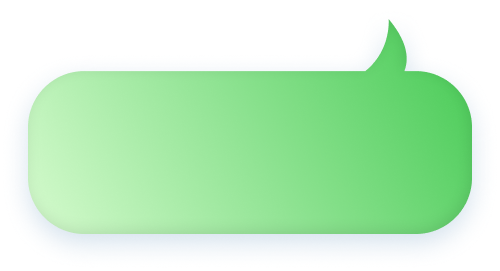
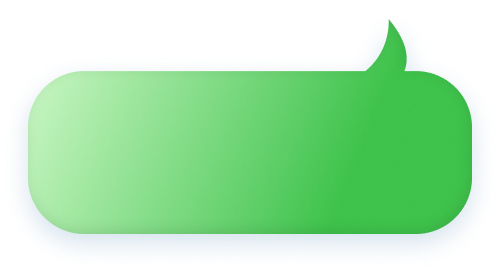
bubble styling

diff --git a/styles/main.css b/styles/main.css
@@ -18,6 +18,23 @@ h1, h2, button {
   text-transform: uppercase;
 }
 
+p {
+  font-size: .9rem;
+  letter-spacing: 2%;
+}
+
+#textBL, #textBR {
+  padding-top: .7rem;
+  font-size: .7rem;
+  letter-spacing: 6%;
+}
+
+#textTL, #textTR {
+  padding-bottom: 1rem;
+  font-size: .7rem;
+  letter-spacing: 6%;
+}
+
 lottie-player {
   width: 200px;
   height: 200px;
@@ -48,11 +65,13 @@ lottie-player {
   display: flex;
   height: 5rem;
 }
+
 .gameMaster {
   align-self: center;
   width: 12rem;
   height: 10rem;
 }
+
 .bubble {
   background-position: center;
   background-size: contain;
@@ -61,8 +80,11 @@ lottie-player {
   justify-content: center;
   align-items: center;
   cursor: pointer;
-  width: 6rem;
+
+  width: 8rem;
+  height: 6rem;
 }
+
 .bubble > p {
   text-align: center;
   vertical-align: middle;
@@ -74,26 +96,11 @@ lottie-player {
   letter-spacing: 0.5px;
 }
 
-#textTL {
-  padding-bottom: 0.3rem;
-}
-
-#textTR {
-  padding-bottom: 0.3rem;
-}
-
-#textBL {
-  padding-top: 0.3rem;
-}
-
-#textBR {
-  padding-top: 0.3rem;
-}
-
 .bubbleImage {
   max-width: 110%;
   max-height: 110%;
 }
+
 .botContainer {
   display: flex;
   justify-content: space-evenly;
@@ -147,6 +154,9 @@ lottie-player {
   height: 3rem;
   /* background-color: blue; */
 }
+
+/* rule modal */ 
+
 #ruleModal {
   opacity: 0;
   transition: all 0.35s;
@@ -204,7 +214,7 @@ lottie-player {
   width: 15rem;
 }
 
-/* highscore module */
+/* high score module */
 
 #highScoresModal {
   display: flex;
@@ -266,6 +276,7 @@ lottie-player {
   width: 30rem;
   border-bottom: 0.1rem solid grey;
 }
+
 #userInput {
   border: 3px solid #dcd6e4;
   box-sizing: border-box;
@@ -289,13 +300,6 @@ lottie-player {
   width: 100%;
 }
 
-/* 
-#answer1,
-#answer2,
-#answer3 {
-   width: 5rem;
-  height: 5rem; 
-}   */
 .answerBubble {
   width: 9.5rem;
   height: 4.5rem;
@@ -334,6 +338,7 @@ lottie-player {
 .guessBtn:focus{
   outline: none;
 }
+
 
 #winnerModal {
   opacity: 0;

diff --git a/index.html b/index.html
@@ -36,7 +36,7 @@
             <img
               class="bubbleImage"
               id="bubbleTR"
-              src="./assets/imgs/bubbleTR.png"
+              src="./assets/imgs/bubbleTR-button.png"
               alt=""
             />
             <p id="textTR"></p>
@@ -60,7 +60,7 @@
             <img
               class="bubbleImage"
               id="bubbleBL"
-              src="./assets/imgs/bubbleBL.png"
+              src="./assets/imgs/bubbleBL-button.png"
               alt=""
             />
             <p id="textBL"></p>
@@ -70,7 +70,7 @@
             <img
               class="bubbleImage"
               id="bubbleBR"
-              src="./assets/imgs/bubbleBR.png"
+              src="./assets/imgs/bubbleBR-button.png"
               alt=""
             />
             <p id="textBR"></p>

diff --git a/src/main.ts b/src/main.ts
@@ -26,7 +26,7 @@ function loadMain(): void {
     setElementContent(bubbleTextID[index], mainText[index]);
     document.getElementById(bubbleID[index]).style.visibility = 'visible';
 
-    // move to own function???
+    // how to play module
     if (mainText[index] === "How to play") {
       const ruleBubble: HTMLElement = document.getElementById("bubbleBL");
 
